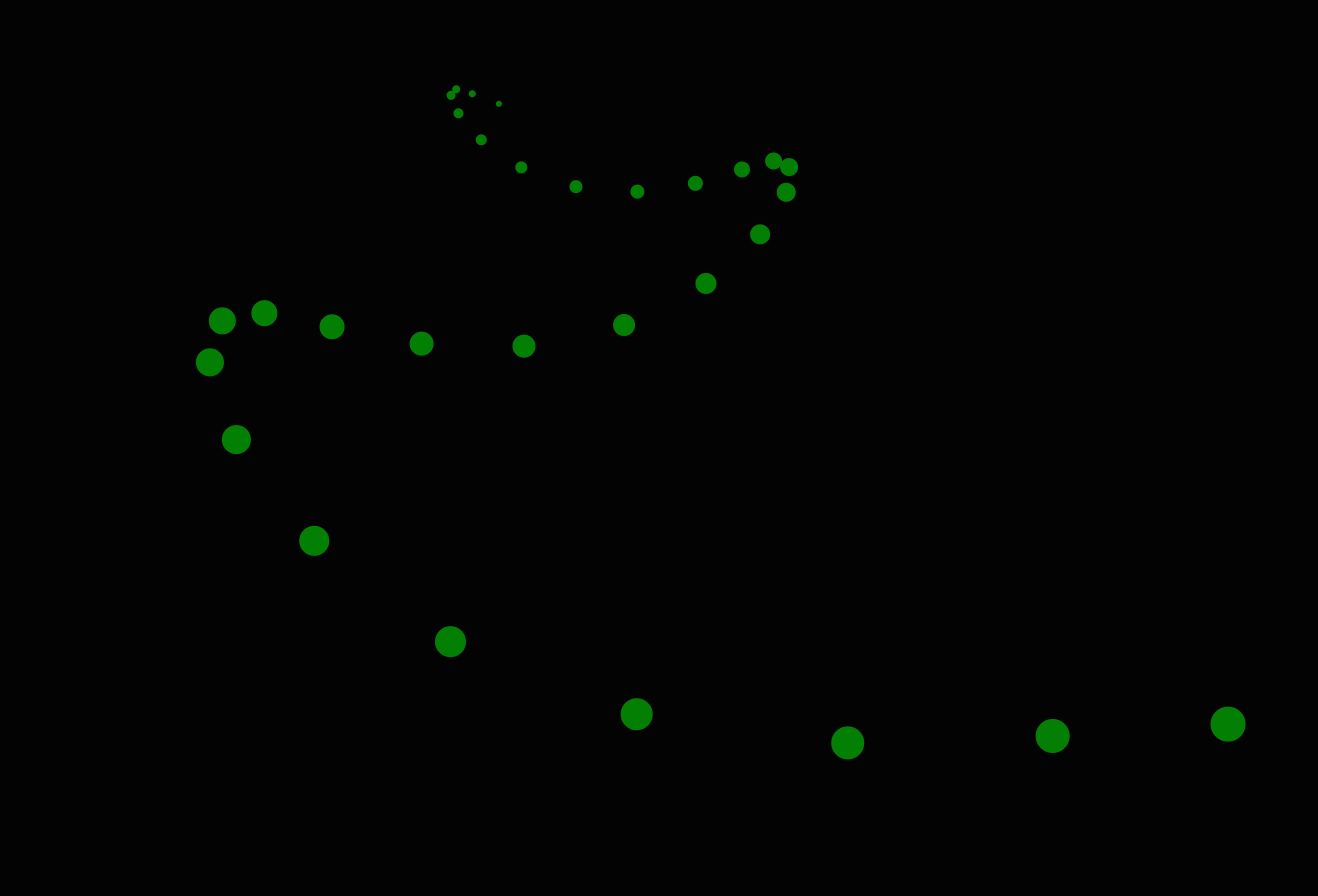
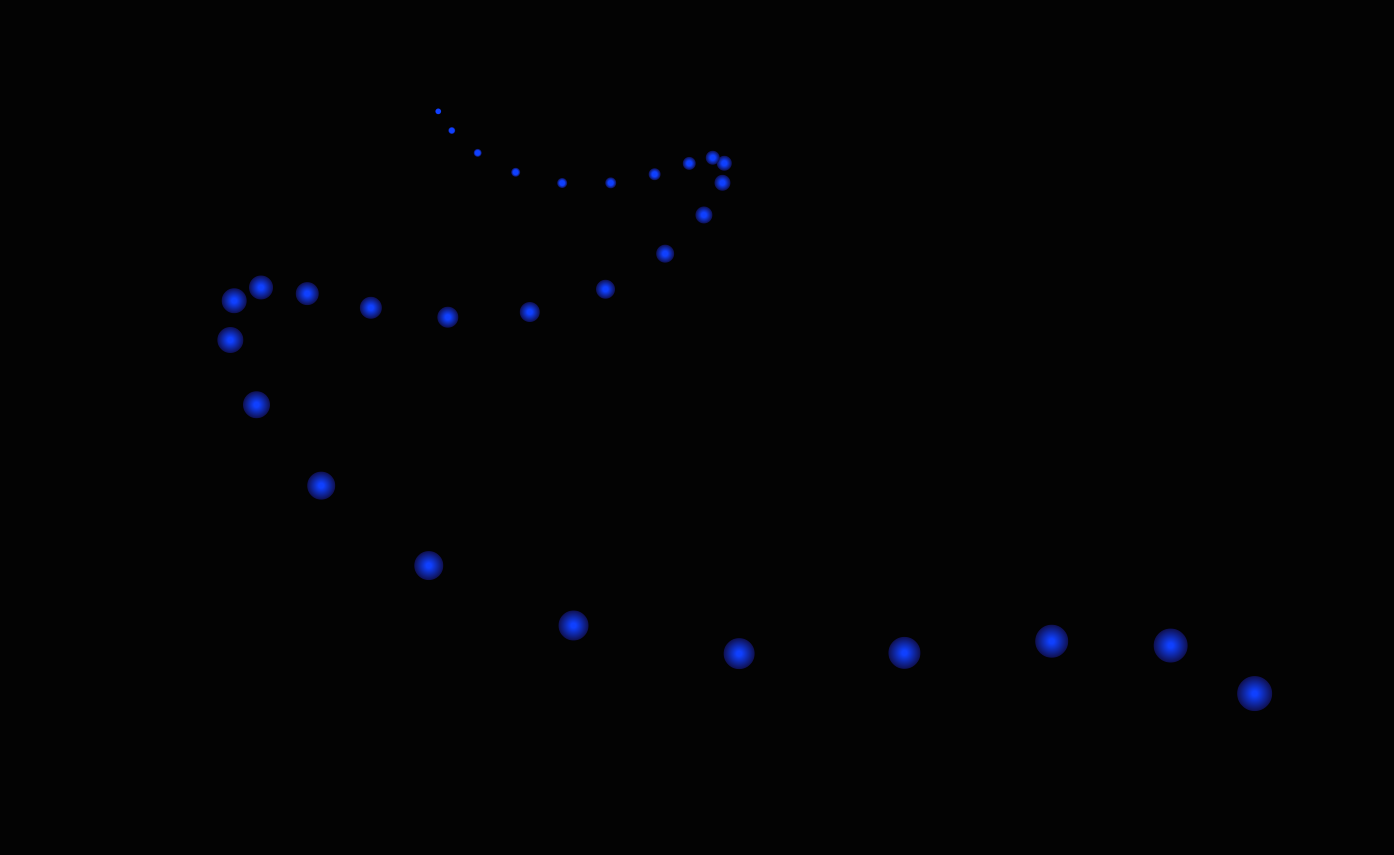
Update colors and readme

diff --git a/lib/pendulum.js b/lib/pendulum.js
@@ -60,7 +60,10 @@ define(function (require) {
         var context = this.ctx;
         context.beginPath();
         context.arc(this.current.x, this.current.y, this.radius, 0, fullCircle, false);
-        context.fillStyle = 'green';
+        var grad =  context.createRadialGradient(this.current.x, this.current.y,5,this.current.x, this.current.y,this.radius);
+        grad.addColorStop(0,baseConfig.shapeColor1);
+        grad.addColorStop(1,baseConfig.shapeColor2);
+        context.fillStyle = grad;//baseConfig.shapeColor;
         context.fill();
     };
 

diff --git a/lib/baseConfig.js b/lib/baseConfig.js
@@ -12,7 +12,8 @@ define(function (require) {
         longestLength: 200,    // This is the slowest pendulum, and dictates movement for all others.
 
         background: '#000000',
-        shapeColor: 'green',
+        shapeColor2: '#2F306F',
+        shapeColor1: '#0F40FF',
 
         isMobile: require('mobileCheck')
     };

diff --git a/README.md b/README.md
@@ -7,8 +7,9 @@ I recently saw [this video](https://www.youtube.com/watch?v=7_AiV12XBbI) on YouT
 fun to simulate.
 
 **[Live Demo Here](http://lmarkus.github.io/pendulum/)**
+<a href="http://lmarkus.github.io/pendulum/" target="_blank"><img src="https://github.com/lmarkus/pendulum/blob/gh-pages/images/waves.png" alt="IMAGE ALT TEXT HERE" width="240" height="180" border="10" /></a>
 
-
+**[Original Video](https://www.youtube.com/watch?v=7_AiV12XBbI)**
 <a href="http://www.youtube.com/watch?feature=player_embedded&v=7_AiV12XBbI
 " target="_blank"><img src="http://img.youtube.com/vi/7_AiV12XBbI/0.jpg"
 alt="IMAGE ALT TEXT HERE" width="240" height="180" border="10" /></a>
